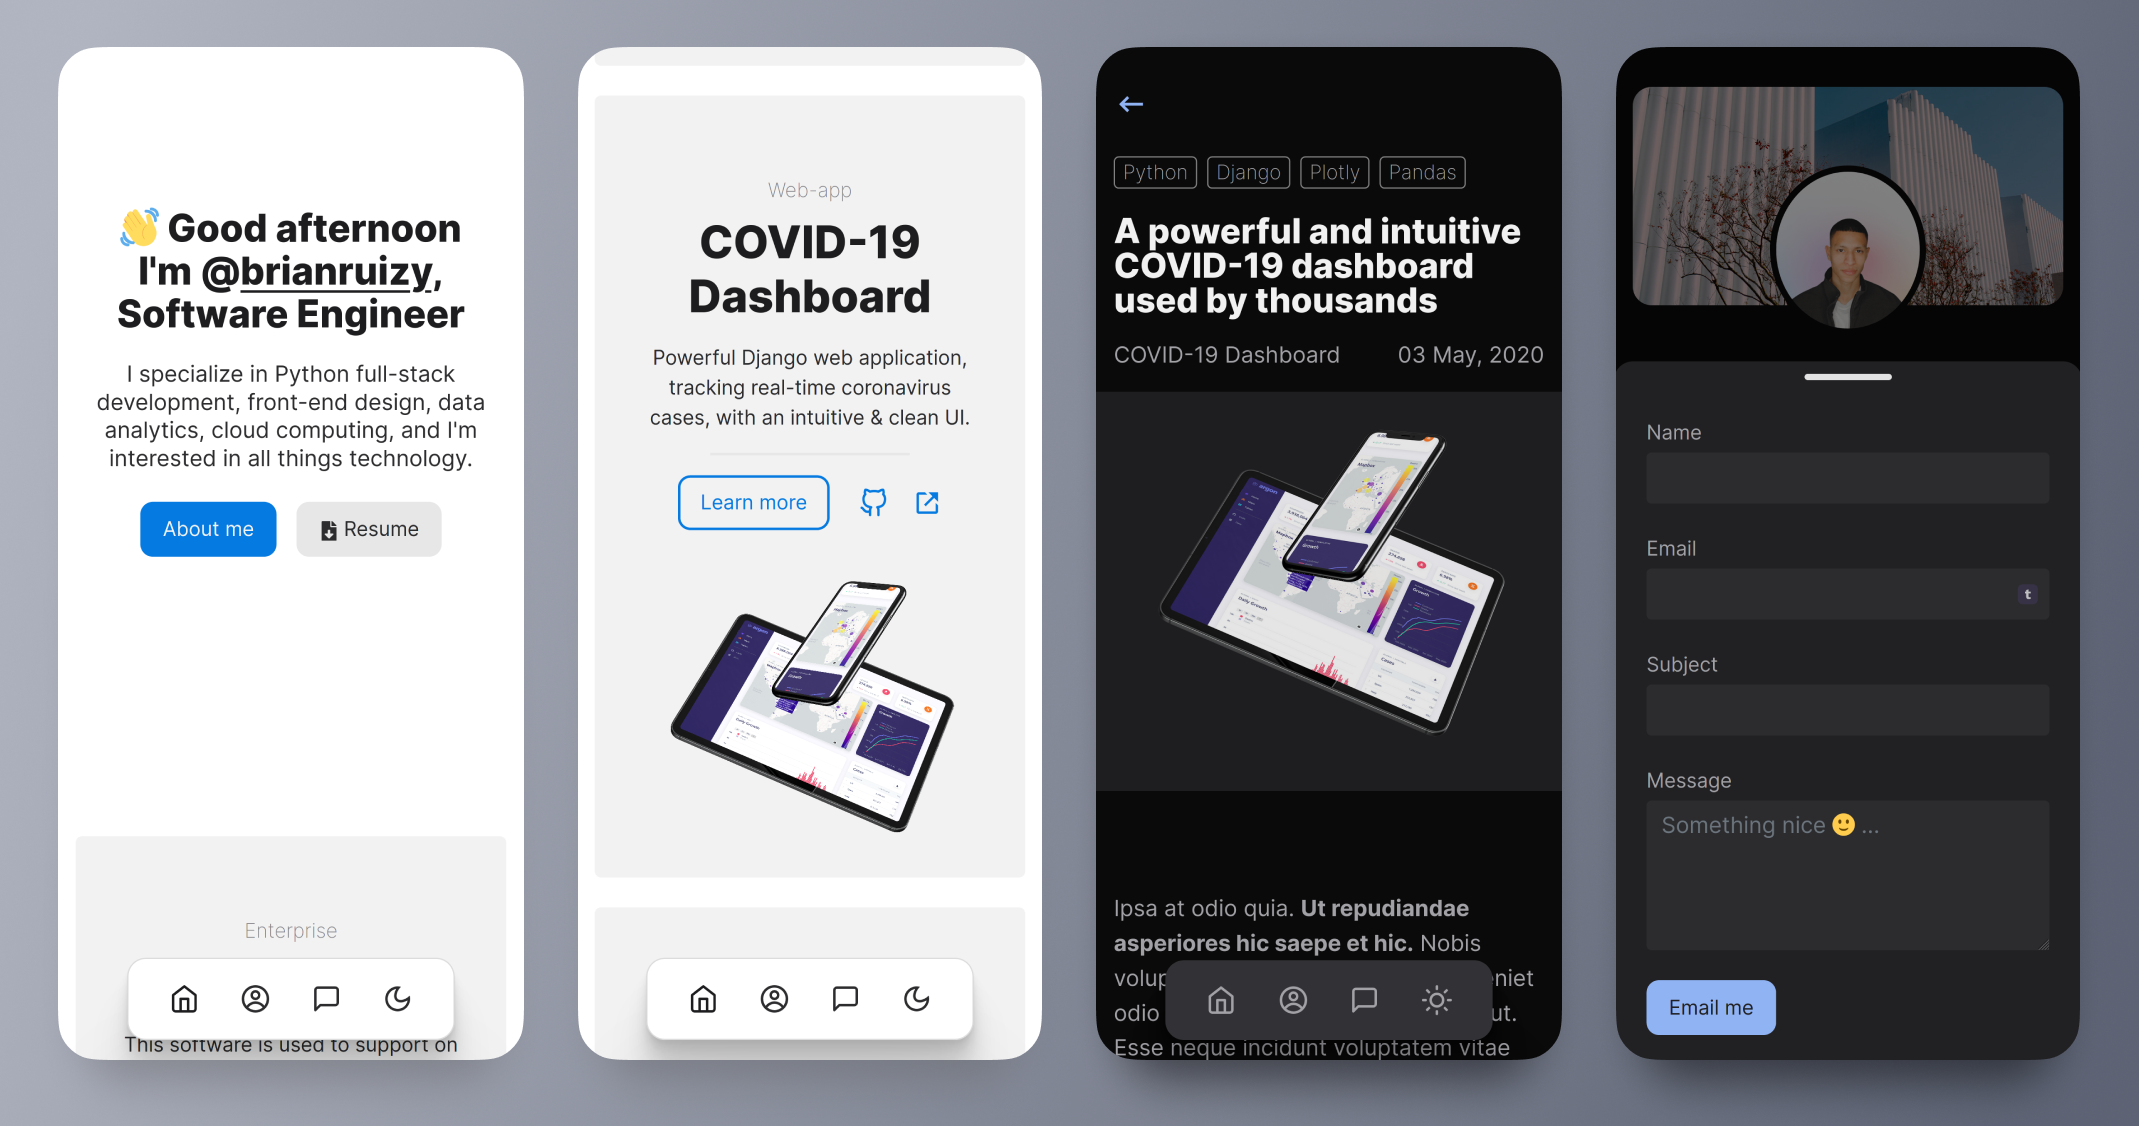
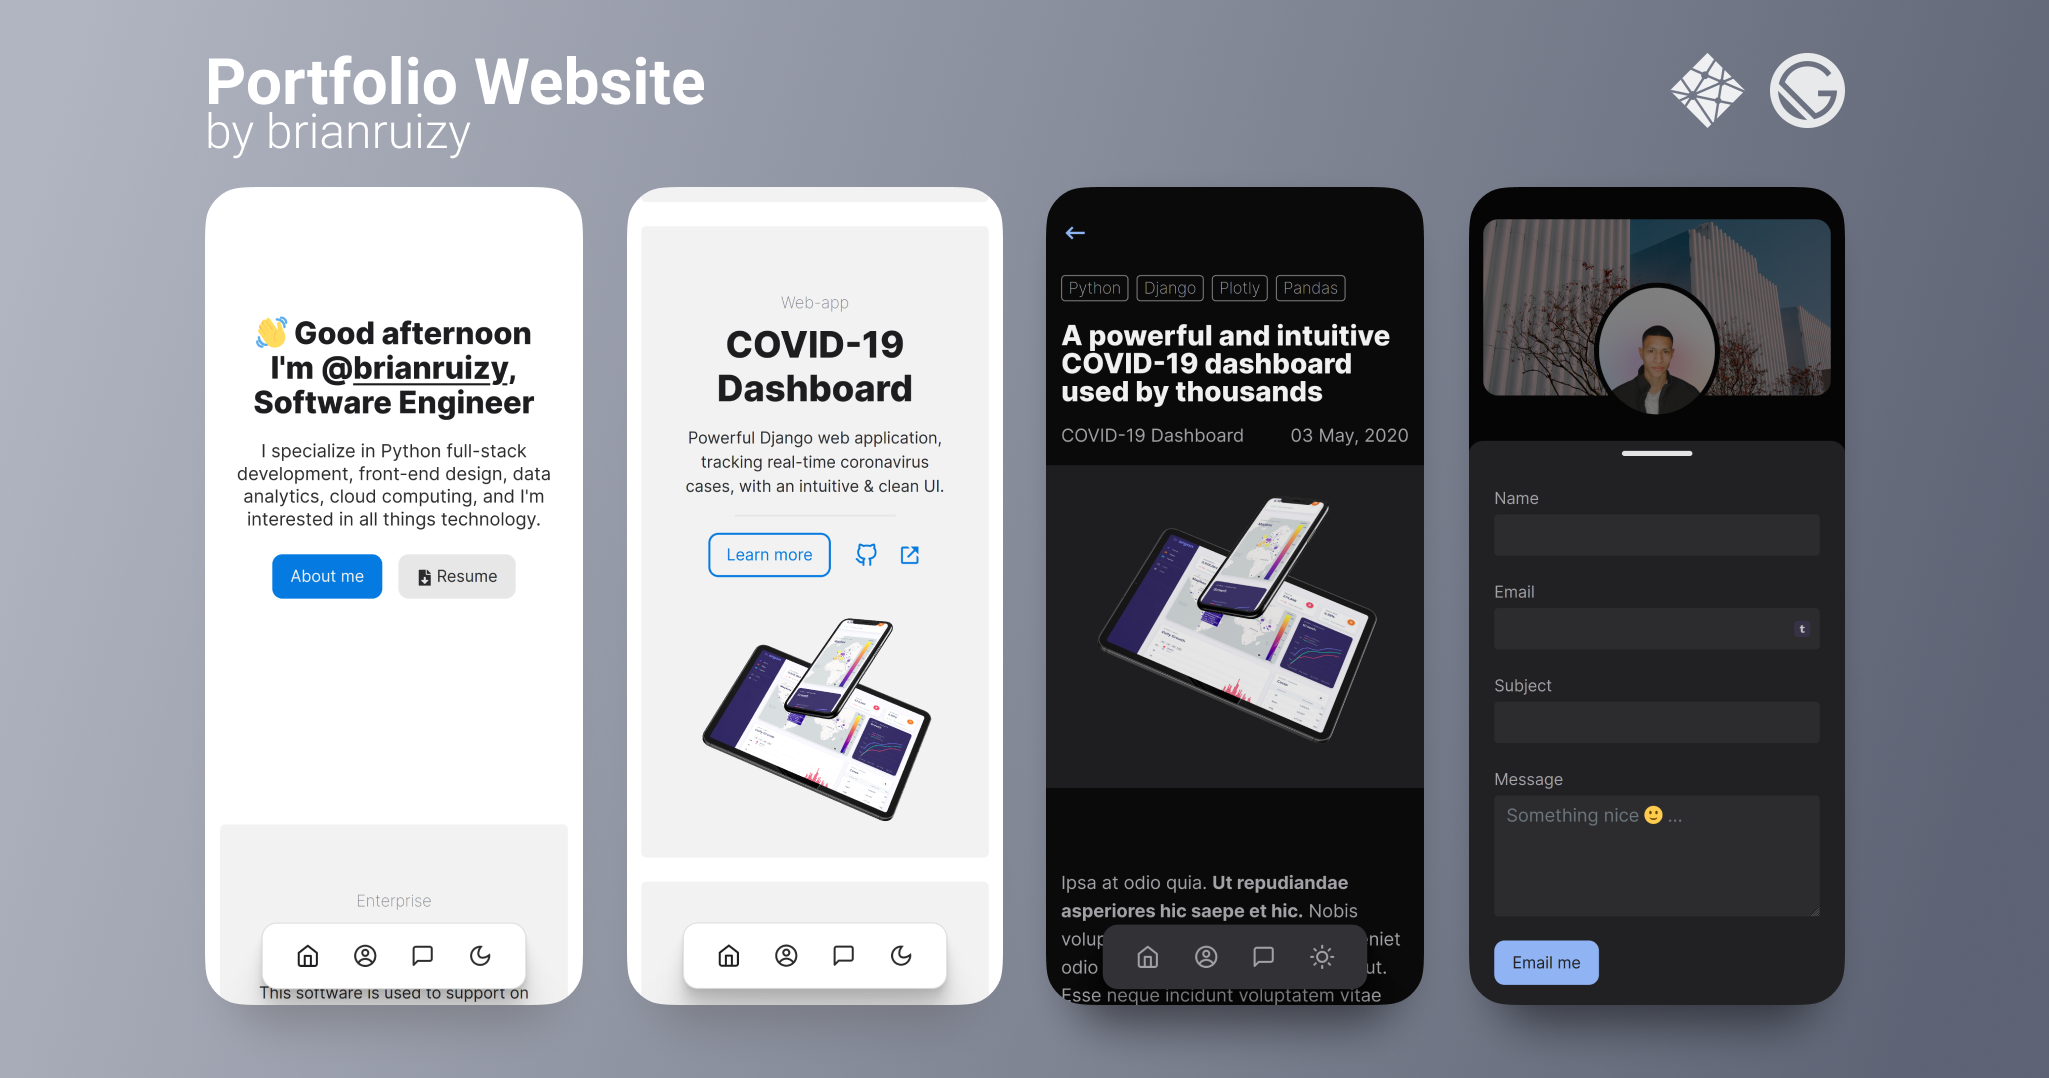
update og:image

diff --git a/src/pages/index.js b/src/pages/index.js
@@ -17,8 +17,8 @@ const IndexPage = ({
         <title>{site.siteMetadata.title}</title>
         <meta name="description" content={site.siteMetadata.description} />
         <meta property="og:image" content="https://raw.githubusercontent.com/BrianRuizy/gatsby-minimal-portfolio/master/static/assets/OG_IMAGE.png"/>
-        <meta property="og:image:width" content="2139" />
-        <meta property="og:image:width" content="1126" />
+        <meta property="og:image:width" content="2049" />
+        <meta property="og:image:width" content="1078" />
       </Helmet>
       <Hero/>
       <Featured />
